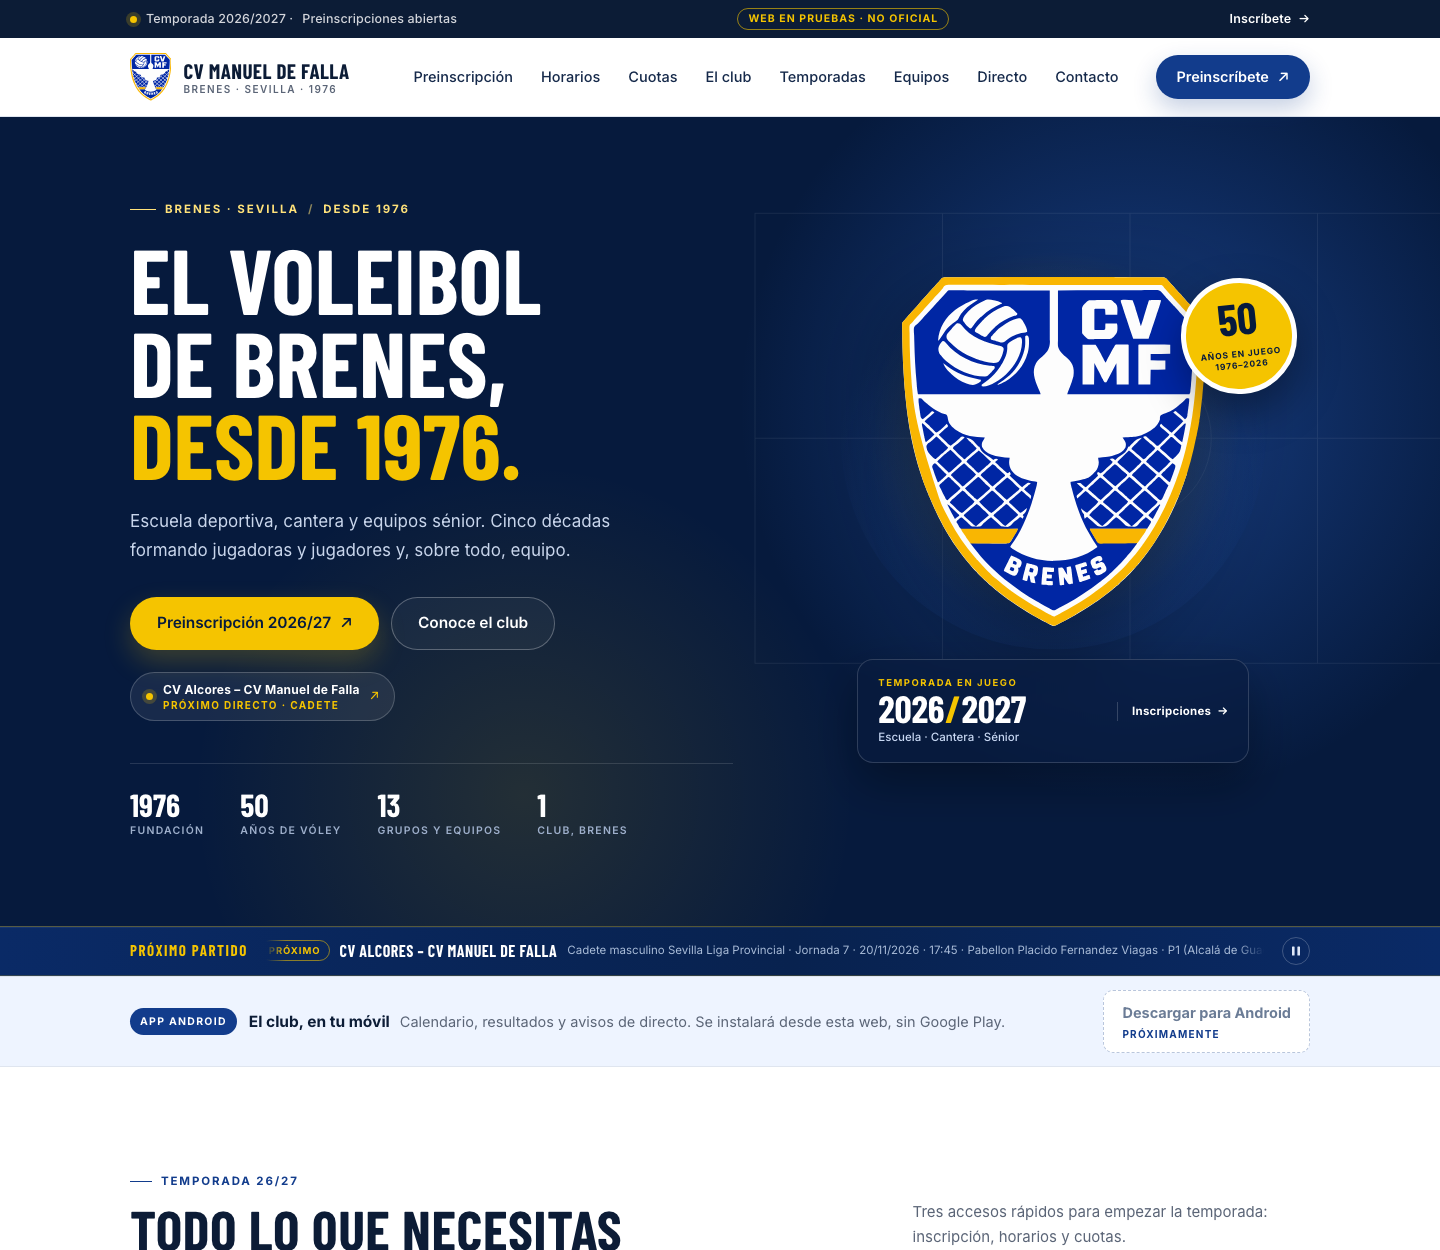
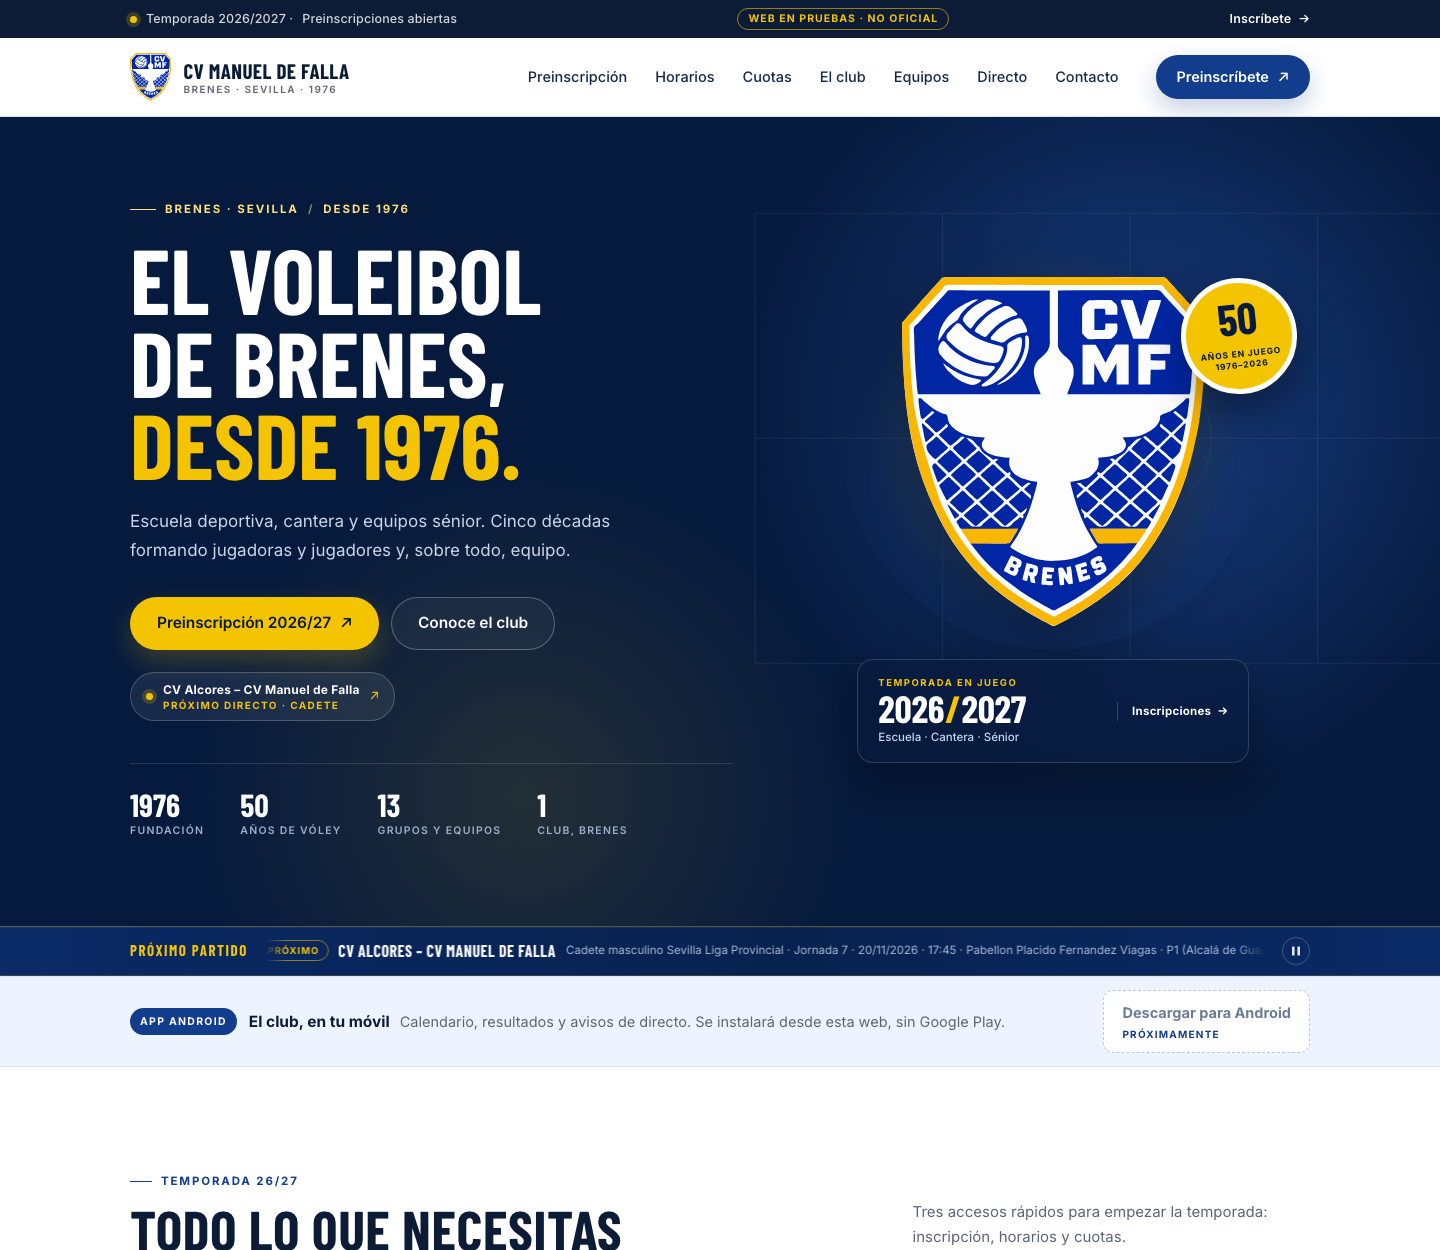
Retirado el apartado Temporadas (conservado comentado) y ajustado el pie

Changed region(s): [[0.1875, 0.7488, 0.8438, 0.78]]

diff --git a/ABRIR-WEB-CLUB-VOLEIBOL.html b/ABRIR-WEB-CLUB-VOLEIBOL.html
@@ -1617,7 +1617,7 @@ h2 {
 }
 .footer-grid {
   display: grid;
-  grid-template-columns: 1.6fr 1fr 1fr 1fr;
+  grid-template-columns: 1.6fr 1fr 1fr;
   gap: 40px;
 }
 .brand-footer { margin-bottom: 16px; }
@@ -2155,9 +2155,8 @@ h2 {
   .news-grid { grid-template-columns: repeat(2, 1fr); }
   .news-card { min-height: 260px; }
   .social-grid { grid-template-columns: repeat(2, 1fr); }
-  .footer-grid { grid-template-columns: 1.4fr 1fr 1fr; }
+  .footer-grid { grid-template-columns: 1fr 1fr; }
   .footer-brand { grid-column: 1 / -1; }
-  .footer-col:last-child { grid-column: auto; }
 }
 
 @media (max-width: 980px) {
@@ -2897,7 +2896,6 @@ h2 {
       <a href="#horarios">Horarios</a>
       <a href="#cuotas">Cuotas</a>
       <a href="#club">El club</a>
-      <a href="#temporadas">Temporadas</a>
       <a href="#equipos">Equipos</a>
       <a href="#directo">Directo</a>
       <a href="#contacto">Contacto</a>
@@ -5235,6 +5233,11 @@ h2 {
     </div>
   </section>
 
+  <!-- Apartado «Temporadas» retirado de la web el 16/11/2026: enlazaba a la web
+       antigua de Jimdo. Se conserva aquí, comentado, por si se quiere recuperar
+       o reconstruir dentro de la web nueva. Para volver a mostrarlo, quita las
+       marcas de comentario y devuelve «Temporadas» al menú y al pie. -->
+  <!--
   <section class="section" id="temporadas" aria-labelledby="temporadas-title">
     <div class="wrap">
       <div class="section-head reveal">
@@ -5262,6 +5265,7 @@ h2 {
       </div>
     </div>
   </section>
+  -->
 
   <section class="section section-paper equipos-section" id="equipos" aria-labelledby="equipos-title">
     <div class="wrap">
@@ -5448,17 +5452,9 @@ h2 {
         <a href="#horarios">Horarios</a>
         <a href="#cuotas">Cuotas</a>
         <a href="#club">El club</a>
-        <a href="#temporadas">Temporadas</a>
         <a href="#contacto">Contacto</a>
       </nav>
 
-      <div class="footer-col">
-        <h2>Temporadas</h2>
-        <a href="https://cvmanueldefalla.jimdofree.com/temporada-2025-2026/" target="_blank" rel="noopener">2025/2026 ↗</a>
-        <a href="https://cvmanueldefalla.jimdofree.com/temporada-2024-2025/" target="_blank" rel="noopener">2024/2025 ↗</a>
-        <a href="https://cvmanueldefalla.jimdofree.com/temporada-2023-2024/" target="_blank" rel="noopener">2023/2024 ↗</a>
-        <a href="https://cvmanueldefalla.jimdofree.com/temporada-2022-2023/" target="_blank" rel="noopener">2022/2023 ↗</a>
-      </div>
 
       <div class="footer-col">
         <h2>Legal</h2>

diff --git a/index.html b/index.html
@@ -154,7 +154,6 @@ window.setTimeout(function () {
       <a href="#horarios">Horarios</a>
       <a href="#cuotas">Cuotas</a>
       <a href="#club">El club</a>
-      <a href="#temporadas">Temporadas</a>
       <a href="#equipos">Equipos</a>
       <a href="#directo">Directo</a>
       <a href="#contacto">Contacto</a>
@@ -2492,6 +2491,11 @@ window.setTimeout(function () {
     </div>
   </section>
 
+  <!-- Apartado «Temporadas» retirado de la web el 16/11/2026: enlazaba a la web
+       antigua de Jimdo. Se conserva aquí, comentado, por si se quiere recuperar
+       o reconstruir dentro de la web nueva. Para volver a mostrarlo, quita las
+       marcas de comentario y devuelve «Temporadas» al menú y al pie. -->
+  <!--
   <section class="section" id="temporadas" aria-labelledby="temporadas-title">
     <div class="wrap">
       <div class="section-head reveal">
@@ -2519,6 +2523,7 @@ window.setTimeout(function () {
       </div>
     </div>
   </section>
+  -->
 
   <section class="section section-paper equipos-section" id="equipos" aria-labelledby="equipos-title">
     <div class="wrap">
@@ -2705,17 +2710,9 @@ window.setTimeout(function () {
         <a href="#horarios">Horarios</a>
         <a href="#cuotas">Cuotas</a>
         <a href="#club">El club</a>
-        <a href="#temporadas">Temporadas</a>
         <a href="#contacto">Contacto</a>
       </nav>
 
-      <div class="footer-col">
-        <h2>Temporadas</h2>
-        <a href="https://cvmanueldefalla.jimdofree.com/temporada-2025-2026/" target="_blank" rel="noopener">2025/2026 ↗</a>
-        <a href="https://cvmanueldefalla.jimdofree.com/temporada-2024-2025/" target="_blank" rel="noopener">2024/2025 ↗</a>
-        <a href="https://cvmanueldefalla.jimdofree.com/temporada-2023-2024/" target="_blank" rel="noopener">2023/2024 ↗</a>
-        <a href="https://cvmanueldefalla.jimdofree.com/temporada-2022-2023/" target="_blank" rel="noopener">2022/2023 ↗</a>
-      </div>
 
       <div class="footer-col">
         <h2>Legal</h2>

diff --git a/styles.css b/styles.css
@@ -1578,7 +1578,7 @@ h2 {
 }
 .footer-grid {
   display: grid;
-  grid-template-columns: 1.6fr 1fr 1fr 1fr;
+  grid-template-columns: 1.6fr 1fr 1fr;
   gap: 40px;
 }
 .brand-footer { margin-bottom: 16px; }
@@ -2116,9 +2116,8 @@ h2 {
   .news-grid { grid-template-columns: repeat(2, 1fr); }
   .news-card { min-height: 260px; }
   .social-grid { grid-template-columns: repeat(2, 1fr); }
-  .footer-grid { grid-template-columns: 1.4fr 1fr 1fr; }
+  .footer-grid { grid-template-columns: 1fr 1fr; }
   .footer-brand { grid-column: 1 / -1; }
-  .footer-col:last-child { grid-column: auto; }
 }
 
 @media (max-width: 980px) {

diff --git a/README.md b/README.md
@@ -30,7 +30,7 @@ Vista rápida sin arrancar nada:
 
 ## Qué incluye
 
-- `index.html` — página completa: inicio, preinscripción, horarios, cuotas, actualidad, club, temporadas, redes y contacto.
+- `index.html` — página completa: inicio, preinscripción, horarios, cuotas, actualidad, club, equipos, directo, redes y contacto.
 - `ABRIR-WEB-CLUB-VOLEIBOL.html` — la misma página en un solo archivo, para verla con doble clic.
 - `styles.css` — diseño responsive, paleta azul/amarillo/blanco, tipografía, animaciones y estilos de impresión.
 - `script.js` — menú móvil, scrollspy, animaciones de aparición, botón «volver arriba» y la tira de resultados/directo.
@@ -40,7 +40,7 @@ Vista rápida sin arrancar nada:
 - `tools/og-image.html` — fuente de la tarjeta `assets/og-image.jpg`, con el escudo y el lema del 50 aniversario.
 - **Tira de resultados** en movimiento sobre la franja amarilla del inicio, generada desde un bloque de datos editable.
 - Sección **«Directo y resultados»** (`#directo`): botón de YouTube con el nombre del evento, enlace a la FAV y reproductor de nivel 2 que solo carga el vídeo al pulsar.
-- Enlaces reales a formularios, documento de inscripción, baja, redes sociales y archivo de temporadas.
+- Enlaces reales a formularios, documento de inscripción, baja y redes sociales.
 
 ## Horarios y cuotas, sin carteles
 
@@ -244,7 +244,8 @@ Comprueba el resultado con `file assets/og-image.jpg`: debe decir `JPEG image da
 ## Notas
 
 - Los horarios y las cuotas están tomados de los carteles oficiales 2026/2027 del club.
-- El archivo de temporadas enlaza a las páginas originales de Jimdo para no perder el histórico.
+- El apartado «Temporadas» está **retirado de la web pero conservado** (comentado) en `index.html`, justo antes de la sección de equipos. Enlazaba a las páginas de la web antigua de Jimdo; para recuperarlo, hay que quitar las marcas de comentario y devolver «Temporadas» al menú y al pie.
+- La tarjeta del torneo de vóley playa de «Más que voleibol» sigue enlazando a la web antigua: sustituirla por una página propia cuando exista.
 - Los enlaces legales siguen apuntando a Jimdo hasta que se redacten páginas propias.
 - El texto de autorización de imagen se ha mantenido literalmente.
 - La web no usa imágenes para precios ni horarios: todo el contenido clave es texto real, indexable y accesible.
